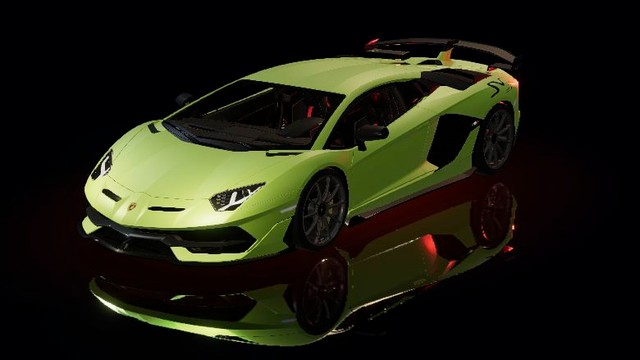
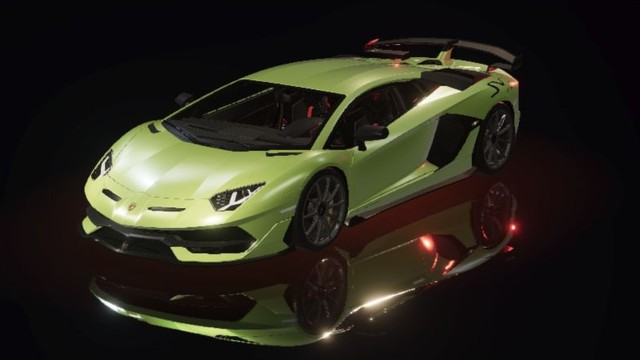
fix: restore gloss to Aventador paint

diff --git a/src/three/modelFinishes.test.ts b/src/three/modelFinishes.test.ts
@@ -1,5 +1,5 @@
-import { Group, Mesh, MeshPhysicalMaterial, Texture } from 'three';
-import { expect, it } from 'vitest';
+import { Group, Mesh, MeshPhysicalMaterial, MeshStandardMaterial, Texture } from 'three';
+import { expect, it, vi } from 'vitest';
 import { prepareModelFinish } from './modelFinishes';
 
 function fixture() {
@@ -38,4 +38,56 @@ it('leaves matching material names in other cars untouched', () => {
   expect(body.metalness).toBe(1);
   expect(window.color.getHexString()).toBe('008000');
   expect(window.metalness).toBe(0.79);
+});
+
+it('gives shared Aventador paint a physical clearcoat while retaining its authored surface', () => {
+  const model = new Group();
+  const paint = new MeshStandardMaterial({
+    color: '#7b9e35',
+    roughness: 0.492,
+    metalness: 0.254,
+    map: new Texture(),
+    normalMap: new Texture(),
+  });
+  paint.name = 'RED_PAINT';
+  const wheel = new MeshStandardMaterial({ roughness: 0.7 });
+  const single = new Mesh(undefined, paint);
+  const multi = new Mesh(undefined, [paint, wheel]);
+  model.add(single, multi);
+  const dispose = vi.spyOn(paint, 'dispose');
+  const textureDispose = vi.spyOn(paint.map!, 'dispose');
+  prepareModelFinish(model, 'lamborghini-aventador.glb');
+  const finish = single.material as MeshPhysicalMaterial;
+  expect(finish).toBeInstanceOf(MeshPhysicalMaterial);
+  expect(finish.defines).toHaveProperty('PHYSICAL');
+  expect(finish.roughness).toBeLessThan(0.3);
+  expect(finish.clearcoat).toBe(1);
+  expect(finish.clearcoatRoughness).toBeLessThan(0.1);
+  expect(finish.color).toEqual(paint.color);
+  expect(finish.metalness).toBe(paint.metalness);
+  expect(finish.name).toBe('RED_PAINT');
+  expect(finish.map).toBe(paint.map);
+  expect(finish.normalMap).toBe(paint.normalMap);
+  expect(multi.material).toEqual([finish, wheel]);
+  expect(wheel.roughness).toBe(0.7);
+  expect(dispose).toHaveBeenCalledOnce();
+  expect(textureDispose).not.toHaveBeenCalled();
+});
+
+it('keeps physical paint reusable and limits the coat to this car and body material', () => {
+  const model = new Group();
+  const paint = new MeshPhysicalMaterial({ roughness: 0.492 });
+  paint.name = 'RED_PAINT';
+  const trim = new MeshPhysicalMaterial({ roughness: 0.65 });
+  trim.name = 'PAINT_BLACK';
+  const mesh = new Mesh(undefined, [paint, trim]);
+  model.add(mesh);
+  prepareModelFinish(model, 'other.glb');
+  expect(paint.clearcoat).toBe(0);
+  prepareModelFinish(model, 'lamborghini-aventador.glb');
+  prepareModelFinish(model, 'lamborghini-aventador.glb');
+  expect(mesh.material).toEqual([paint, trim]);
+  expect(paint.clearcoat).toBe(1);
+  expect(trim.clearcoat).toBe(0);
+  expect(trim.roughness).toBe(0.65);
 });

diff --git a/src/three/modelFinishes.ts b/src/three/modelFinishes.ts
@@ -1,7 +1,36 @@
-import { type Mesh, type MeshPhysicalMaterial, type Object3D } from 'three';
+import { type Mesh, MeshPhysicalMaterial, MeshStandardMaterial, type Object3D } from 'three';
 
-// The livery sits over a separate shell. Keep it ahead of that coplanar surface.
+function prepareAventadorPaint(model: Object3D): void {
+  const replacements = new Map<MeshStandardMaterial, MeshPhysicalMaterial>();
+  model.traverse((object) => {
+    const mesh = object as Mesh;
+    if (!mesh.isMesh) return;
+    const prepare = (material: MeshStandardMaterial) => {
+      if (!material.isMeshStandardMaterial || material.name !== 'RED_PAINT') return material;
+      if (replacements.has(material)) return replacements.get(material)!;
+      const finish =
+        material instanceof MeshPhysicalMaterial ? material : new MeshPhysicalMaterial();
+      // Copy the standard surface without overwriting the physical material's coat defaults.
+      if (finish !== material) MeshStandardMaterial.prototype.copy.call(finish, material);
+      finish.defines.PHYSICAL = '';
+      finish.roughness = 0.23;
+      finish.clearcoat = 1;
+      finish.clearcoatRoughness = 0.08;
+      finish.needsUpdate = true;
+      replacements.set(material, finish);
+      return finish;
+    };
+    mesh.material = Array.isArray(mesh.material)
+      ? mesh.material.map((material) => prepare(material as MeshStandardMaterial))
+      : prepare(mesh.material as MeshStandardMaterial);
+  });
+  for (const [original, finish] of replacements) {
+    if (original !== finish) original.dispose();
+  }
+}
+
 export function prepareModelFinish(model: Object3D, file: string): void {
+  if (file === 'lamborghini-aventador.glb') return prepareAventadorPaint(model);
   if (file !== 'ferrari-296-gt3.glb') return;
   const visited = new Set<MeshPhysicalMaterial>();
   model.traverse((object) => {
@@ -12,6 +41,7 @@ export function prepareModelFinish(model: Object3D, file: string): void {
       if (visited.has(finish)) continue;
       visited.add(finish);
       if (finish.name === 'mat_220') {
+        // The livery sits over a separate shell. Keep it ahead of that coplanar surface.
         finish.polygonOffset = true;
         finish.polygonOffsetFactor = -2;
         finish.polygonOffsetUnits = -2;

diff --git a/art/ui-qa/october-23/aventador-finish/README.md b/art/ui-qa/october-23/aventador-finish/README.md
@@ -1,0 +1,23 @@
+# Aventador paint finish
+
+The Aventador's `RED_PAINT` material gains a physical clearcoat and lower roughness.
+Its existing green default, metallic response, texture maps, geometry, wheels,
+carbon trim and glass retain their source settings. Shared body materials reuse one
+replacement, and the replaced material is disposed without disposing its textures.
+
+The [before](before.jpg) and [after](after.jpg) captures use the same clean camera,
+dusk theme and afternoon sun position. Only these temporary comparison builds pin
+the sun to 14:00; production continues following the visitor's local time.
+The [side-by-side comparison](comparison.jpg) puts the body highlights together.
+The [phone review](phone.jpg) shows the result in the normal portfolio interface.
+The picker preview uses the updated finish.
+
+Repository verification covers the physical shader, original surface properties,
+shared materials, untouched trim and repeat preparation. Removing the clearcoat
+made the new regression tests fail; restoring it passed. Focused Chromium and
+WebKit checks exercise repainting, shared links, picker behavior and floor
+reflections. They use a fresh preview of the verified production build, avoiding
+an additional build after local server-start timeouts. CI configuration is unchanged.
+
+These captures use desktop browser viewport emulation. Physical-phone GPU behavior
+has not been verified.

diff --git a/docs/architecture.md b/docs/architecture.md
@@ -59,7 +59,9 @@ meshes that could resemble a baked ground plane; the RB16B omits synthetic road 
 The 296 GT3 declares an orientation offset to normalize its diagonal source pose
 before length fitting and grounding. `modelFinishes` keeps the 296's printed livery
 in front of its coplanar shell and corrects its body/glass metalness for the studio
-lighting without changing textures or wheel finishes. `popupHeadlights` samples the
+lighting without changing textures or wheel finishes. The Aventador's named body
+paint receives a physical clearcoat and lower roughness; its color, texture maps,
+wheel and trim materials remain intact. `popupHeadlights` samples the
 Miata's authored opening clip between its closed and raised poses; its Lights button
 reverses travel, starts raised on selection and snaps poses for reduced motion.
 The bulb materials emit warm light while raised; lens-mounted point lights follow

diff --git a/docs/model-licenses.md b/docs/model-licenses.md
@@ -142,6 +142,8 @@ is normalized at runtime before framing, without changing vertex data. The site
 also corrects the printed body's metallic response, uses neutral transparent
 glazing, and offsets the livery surface to avoid overlap artifacts. These runtime
 material adjustments preserve the source GLB, decals, geometry and wheel finishes.
+The Aventador's named body paint receives a runtime clearcoat and lower roughness.
+This retains its source GLB, paint color, textures, wheels and trim materials.
 The Miata's embedded headlight animation is sampled by a reversible Lights button;
 headlights start raised, with instant pose changes for reduced motion. Warm bulb
 emission and lens-mounted lights are added at runtime and fade with the opening
